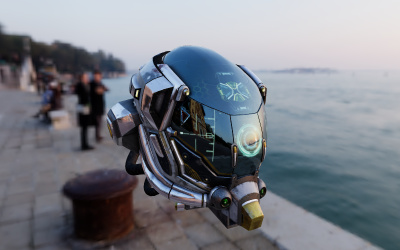
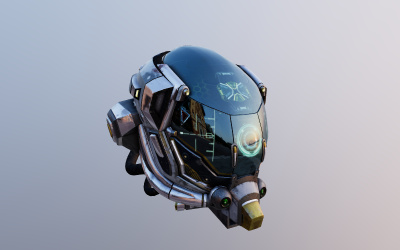
Scene: Add background blur with PMREM. (#24752)

diff --git a/src/renderers/webgl/WebGLBackground.js b/src/renderers/webgl/WebGLBackground.js
@@ -7,7 +7,7 @@ import { Mesh } from '../../objects/Mesh.js';
 import { ShaderLib } from '../shaders/ShaderLib.js';
 import { cloneUniforms } from '../shaders/UniformsUtils.js';
 
-function WebGLBackground( renderer, cubemaps, state, objects, alpha, premultipliedAlpha ) {
+function WebGLBackground( renderer, cubemaps, cubeuvmaps, state, objects, alpha, premultipliedAlpha ) {
 
 	const clearColor = new Color( 0x000000 );
 	let clearAlpha = alpha === true ? 0 : 1;
@@ -26,7 +26,8 @@ function WebGLBackground( renderer, cubemaps, state, objects, alpha, premultipli
 
 		if ( background && background.isTexture ) {
 
-			background = cubemaps.get( background );
+			const usePMREM = scene.backgroundBlurriness > 0; // use PMREM if the user wants to blur the background
+			background = ( usePMREM ? cubeuvmaps : cubemaps ).get( background );
 
 		}
 
@@ -103,6 +104,7 @@ function WebGLBackground( renderer, cubemaps, state, objects, alpha, premultipli
 
 			boxMesh.material.uniforms.envMap.value = background;
 			boxMesh.material.uniforms.flipEnvMap.value = ( background.isCubeTexture && background.isRenderTargetTexture === false ) ? - 1 : 1;
+			boxMesh.material.uniforms.backgroundBlurriness.value = scene.backgroundBlurriness;
 
 			if ( currentBackground !== background ||
 				currentBackgroundVersion !== background.version ||

diff --git a/src/scenes/Scene.js b/src/scenes/Scene.js
@@ -14,6 +14,8 @@ class Scene extends Object3D {
 		this.environment = null;
 		this.fog = null;
 
+		this.backgroundBlurriness = 0;
+
 		this.overrideMaterial = null;
 
 		if ( typeof __THREE_DEVTOOLS__ !== 'undefined' ) {
@@ -32,6 +34,8 @@ class Scene extends Object3D {
 		if ( source.environment !== null ) this.environment = source.environment.clone();
 		if ( source.fog !== null ) this.fog = source.fog.clone();
 
+		this.backgroundBlurriness = source.backgroundBlurriness;
+
 		if ( source.overrideMaterial !== null ) this.overrideMaterial = source.overrideMaterial.clone();
 
 		this.matrixAutoUpdate = source.matrixAutoUpdate;
@@ -45,6 +49,7 @@ class Scene extends Object3D {
 		const data = super.toJSON( meta );
 
 		if ( this.fog !== null ) data.object.fog = this.fog.toJSON();
+		if ( this.backgroundBlurriness > 0 ) data.backgroundBlurriness = this.backgroundBlurriness;
 
 		return data;
 

diff --git a/examples/webgl_tonemapping.html b/examples/webgl_tonemapping.html
@@ -42,7 +42,8 @@
 
 			const params = {
 				exposure: 1.0,
-				toneMapping: 'ACESFilmic'
+				toneMapping: 'ACESFilmic',
+				blurriness: 1
 			};
 
 			const toneMappingOptions = {
@@ -86,6 +87,7 @@
 				);
 
 				scene = new THREE.Scene();
+				scene.backgroundBlurriness = 1;
 
 				camera = new THREE.PerspectiveCamera( 45, window.innerWidth / window.innerHeight, 0.25, 20 );
 				camera.position.set( - 1.8, 0.6, 2.7 );
@@ -132,6 +134,15 @@
 						updateGUI();
 
 						renderer.toneMapping = toneMappingOptions[ params.toneMapping ];
+						render();
+
+					} );
+
+				gui.add( params, 'blurriness', 0, 1 )
+
+					.onChange( function ( value ) {
+
+						scene.backgroundBlurriness = value;
 						render();
 
 					} );

diff --git a/docs/api/en/scenes/Scene.html b/docs/api/en/scenes/Scene.html
@@ -30,6 +30,11 @@
 		Can be set to a [page:Color] which sets the clear color, a [page:Texture] covering the canvas, a cubemap as a [page:CubeTexture] or an equirectangular as a [page:Texture] . Default is null.
 		</p>
 
+		<h3>[property:Float backgroundBlurriness]</h3>
+		<p>
+			Sets the blurriness of the background. Only influences environment maps assigned to [page:Scene.background]. Valid input is a float between *0* and *1*. Default is *0*.
+		</p>
+
 		<h3>[property:Texture environment]</h3>
 		<p>
 		If not null, this texture is set as the environment map for all physical materials in the scene.

diff --git a/src/renderers/WebGLRenderer.js b/src/renderers/WebGLRenderer.js
@@ -337,7 +337,7 @@ function WebGLRenderer( parameters = {} ) {
 		materials = new WebGLMaterials( _this, properties );
 		renderLists = new WebGLRenderLists();
 		renderStates = new WebGLRenderStates( extensions, capabilities );
-		background = new WebGLBackground( _this, cubemaps, state, objects, _alpha, _premultipliedAlpha );
+		background = new WebGLBackground( _this, cubemaps, cubeuvmaps, state, objects, _alpha, _premultipliedAlpha );
 		shadowMap = new WebGLShadowMap( _this, objects, capabilities );
 		uniformsGroups = new WebGLUniformsGroups( _gl, info, capabilities, state );
 

diff --git a/docs/api/zh/scenes/Scene.html b/docs/api/zh/scenes/Scene.html
@@ -32,6 +32,11 @@
 		或是 a cubemap as a [page:CubeTexture] or an equirectangular as a [page:Texture]。默认值为null。
 		</p>
 
+		<h3>[property:Float backgroundBlurriness]</h3>
+		<p>
+			Sets the blurriness of the background. Only influences environment maps assigned to [page:Scene.background]. Valid input is a float between *0* and *1*. Default is *0*.
+		</p>
+
 		<h3>[property:Texture environment]</h3>
 		<p>
     若该值不为null，则该纹理贴图将会被设为场景中所有物理材质的环境贴图。

diff --git a/src/renderers/shaders/UniformsLib.js b/src/renderers/shaders/UniformsLib.js
@@ -34,7 +34,8 @@ const UniformsLib = {
 		flipEnvMap: { value: - 1 },
 		reflectivity: { value: 1.0 }, // basic, lambert, phong
 		ior: { value: 1.5 }, // physical
-		refractionRatio: { value: 0.98 } // basic, lambert, phong
+		refractionRatio: { value: 0.98 }, // basic, lambert, phong
+		backgroundBlurriness: { value: 0 } // background
 
 	},
 

diff --git a/src/renderers/shaders/ShaderChunk/envmap_fragment.glsl.js b/src/renderers/shaders/ShaderChunk/envmap_fragment.glsl.js
@@ -40,7 +40,7 @@ export default /* glsl */`
 
 	#elif defined( ENVMAP_TYPE_CUBE_UV )
 
-		vec4 envColor = textureCubeUV( envMap, reflectVec, 0.0 );
+		vec4 envColor = textureCubeUV( envMap, reflectVec, backgroundBlurriness );
 
 	#else
 

diff --git a/src/loaders/ObjectLoader.js b/src/loaders/ObjectLoader.js
@@ -780,6 +780,8 @@ class ObjectLoader extends Loader {
 
 				}
 
+				if ( data.backgroundBlurriness !== undefined ) object.backgroundBlurriness = data.backgroundBlurriness;
+
 				break;
 
 			case 'PerspectiveCamera':

diff --git a/src/renderers/shaders/ShaderChunk/envmap_common_pars_fragment.glsl.js b/src/renderers/shaders/ShaderChunk/envmap_common_pars_fragment.glsl.js
@@ -1,6 +1,7 @@
 export default /* glsl */`
 #ifdef USE_ENVMAP
 
+	uniform float backgroundBlurriness;
 	uniform float envMapIntensity;
 	uniform float flipEnvMap;
 
